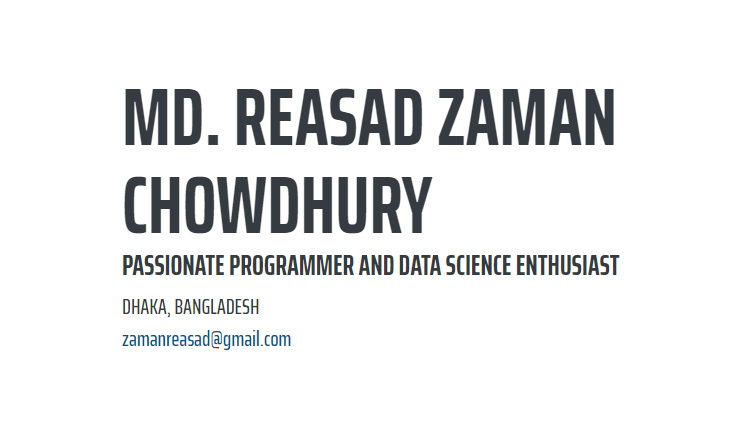
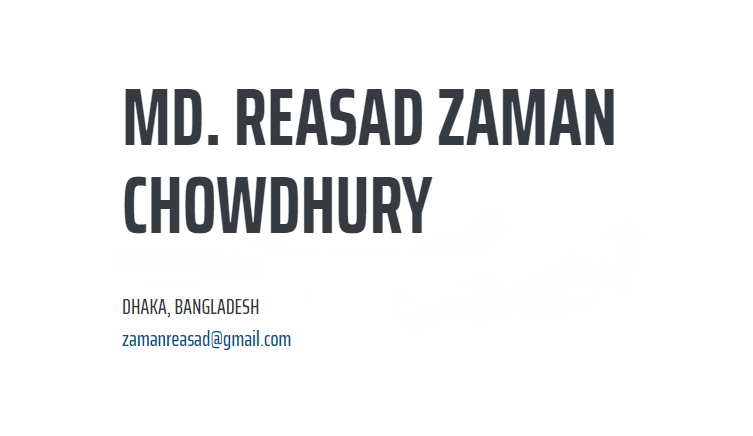
Update: Added new workplace in about section

Changed region(s): [[0.1527, 0.5665, 0.8247, 0.656]]

diff --git a/index.html b/index.html
@@ -87,7 +87,7 @@
           <h1 class="mb-0">
             Md. Reasad Zaman Chowdhury
           </h1>
-          <h3>Passionate Programmer and Data Science Enthusiast</h3>
+          <h3>Lecturer at CSE, AUST</h3>
           <div class="subheading mb-5">
             Dhaka, Bangladesh<br>
             <a href="zamanreasad@gmail.com">zamanreasad@gmail.com</a>
@@ -121,12 +121,11 @@
           </div>
           
           <p class="mb-5">
-            My name is Md. Reasad Zaman Chowdhury. I graduated with B.Sc in Computer
-            Science and Engineering from Ahsanullah University of Science and 
-            Technology, Bangladesh. I am enthusiastic about building software
-             and solving real-world problems with my software development skills. I am 
-             also interested in doing research in the fields of data science, 
-              machine learning and artificial intelligence.  
+            I have graduated with a B.Sc degree in Computer Science and 
+            Engineering (CSE) from Ahsanullah University of Science and Technology 
+            (AUST). Currently working as a lecturer at CSE, AUST. 
+            My research interests include Machine Learning, Artificial 
+            Intelligence and Data Science.  
           </p>
           <a href="/resources/cv_reasad.pdf" target="_blank">View Full CV</a>
           <br />
